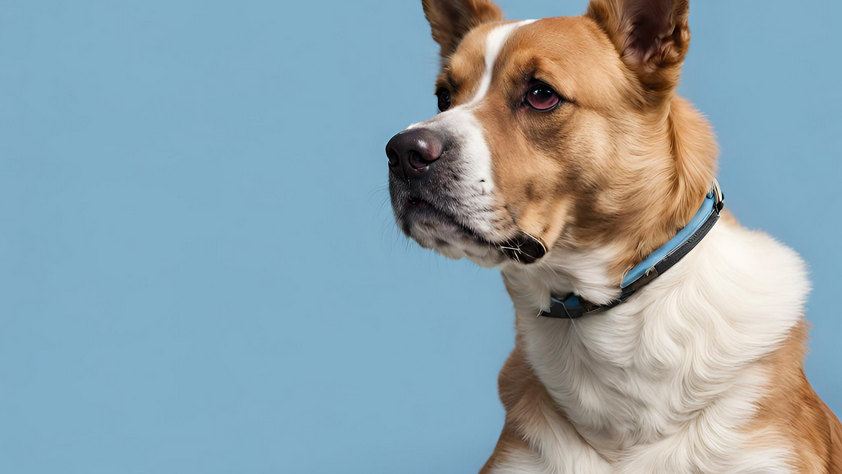
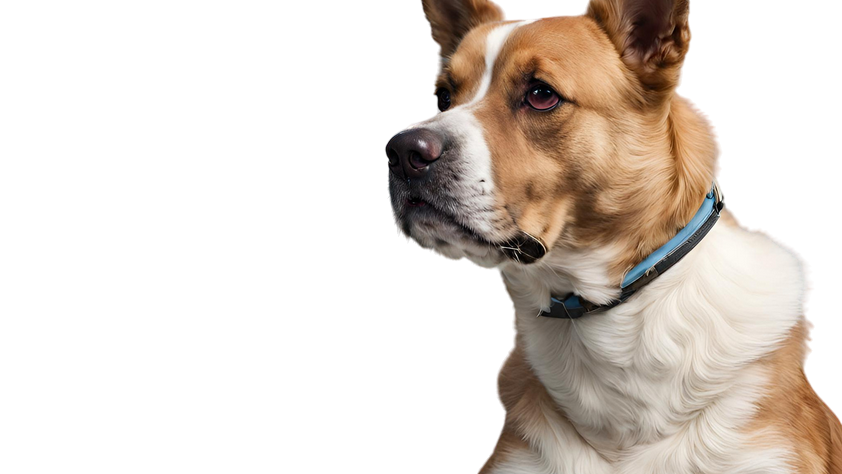
background header first mediaquery

diff --git a/src/scss/layout/_header.scss b/src/scss/layout/_header.scss
@@ -1,13 +1,14 @@
 @use '../abstracts/variables' as v;
+@use '../abstracts/mixins' as m;
 
 .header {
     position: relative;
     display: grid;
     grid-template-columns: 1fr repeat(12, minmax(min-content, 10rem)) 1fr;
-    grid-template-rows: min-content 1fr ;
-    grid-template-areas: 
-    ". navbar navbar navbar navbar navbar navbar navbar navbar navbar navbar navbar navbar ."
-    ". header-content header-content header-content header-content header-content header-content header-content header-content header-content header-content header-content header-content .";
+    grid-template-rows: min-content 1fr;
+    grid-template-areas:
+        ". navbar navbar navbar navbar navbar navbar navbar navbar navbar navbar navbar navbar ."
+        ". header-content header-content header-content header-content header-content header-content header-content header-content header-content header-content header-content header-content .";
     // min-height: 100vh;
 
 
@@ -17,19 +18,22 @@
         grid-template-columns: repeat(4, 1fr);
         grid-template-rows: 2fr 1fr;
         align-items: center;
-        &__left{
+
+        &__left {
             display: flex;
             flex-direction: column;
             justify-content: center;
             // &__title{
 
             // }
-            &__pg{
+            &__pg {
                 margin: 2rem 0;
             }
         }
-        &__right{}
-        &__bottom{
+
+        &__right {}
+
+        &__bottom {
             grid-row: 2;
             grid-column: 1 / -1;
             display: flex;
@@ -38,12 +42,14 @@
             border-radius: v.$border-radius--primary;
             // border: 1px solid black;
             box-shadow: v.$border--shadow--primary;
+
             &__info {
-                flex:1;
+                flex: 1;
                 display: flex;
                 flex-direction: column;
                 justify-content: space-evenly;
                 align-items: center;
+
                 &:last-child {
                     background: v.$color--quintenary;
                     border-radius: v.$border-radius--right;
@@ -51,10 +57,26 @@
             }
         }
     }
+
+    &__background {
+        grid-column: 7 / -1;
+        grid-row: 1 / -1;
+        z-index: -1;
+        top: 0;
+        right: 0;
+        background: url('src/assets/img/dog-header.png');
+        background-size: cover;
+        height: 100vh;
+        width: 100%;
+        background-position: right;
+        background-color: v.$color--quintenary--dark;
+        clip-path: ellipse(59% 72% at 63% 35%);
+        @include m.header-background(750px);
+    }
 }
 
 @media screen and (max-width: 600px) {
     .header {
-        min-height: max-content ;
+        min-height: max-content;
     }
 }

diff --git a/src/components/Header.tsx b/src/components/Header.tsx
@@ -7,9 +7,9 @@ import { useEffect, useState } from "react"
 export const Header: React.FC = () => {
 
   const location = useLocation()
-  const [homePlaced, setHomePlaced]= useState(false);
-  useEffect(()=> {
-    if(location.pathname === '/')
+  const [homePlaced, setHomePlaced] = useState(false);
+  useEffect(() => {
+    if (location.pathname === '/')
       setHomePlaced(true)
     else
       setHomePlaced(false)
@@ -17,10 +17,14 @@ export const Header: React.FC = () => {
 
   return (
     <header className="header" style={{
-      minHeight: `${homePlaced === true ? '100vh': ''}`
+      minHeight: `${homePlaced === true ? '100vh' : ''}`
     }}>
+      {
+        homePlaced && <div className="header__background" /> }
+
+
       <Navbar />
-      { homePlaced === true ? <HeaderContent /> : null}
+      {homePlaced === true ? <HeaderContent /> : null}
     </header>
   )
 }

diff --git a/src/components/Navbar.tsx b/src/components/Navbar.tsx
@@ -2,7 +2,7 @@ import { faBars, faGear } from "@fortawesome/free-solid-svg-icons"
 import { FontAwesomeIcon } from "@fortawesome/react-fontawesome"
 import { useState } from "react"
 import { useDispatch, useSelector } from "react-redux";
-import { NavLink, useNavigate } from "react-router-dom";
+import { Link, NavLink, useNavigate } from "react-router-dom";
 import { RootState } from "../app/store";
 import { setLogOut } from "../features/auth/authSlice";
 
@@ -32,7 +32,7 @@ export const Navbar = () => {
         <nav className="navbar">
             <div className="navbar__nav">
                 <div className="navbar__nav__logo">
-                    <span>VetCare</span>
+                    <span><Link to={'/'}>VetCare</Link></span>
                 </div>
 
                 <ul className="navbar__nav__links" style={styleOpen}>

diff --git a/src/components/HeaderContent.tsx b/src/components/HeaderContent.tsx
@@ -1,5 +1,5 @@
 import { Link } from "react-router-dom";
-import dogBackground from "../assets/img/dog-header.png";
+
 export const HeaderContent = () => {
     return (
         <div className="header__content">
@@ -28,17 +28,7 @@ export const HeaderContent = () => {
                     <b>Any info</b>
                 </div>
             </div>
-            <div className="header__backgroud" style={{
-                position: "absolute",
-                zIndex: "-1",
-                top: 0,
-                background: `url(${dogBackground})`,
-                backgroundSize: "cover",
-                height: "100%",
-                width: "100%",
-                // clipPath: "ellipse(31% 52% at 61% 52%)"
-                clipPath: "ellipse(30% 70% at 70% 40%)",
-            }} />
+           
         </div>
     )
 }

diff --git a/src/scss/abstracts/_mixins.scss b/src/scss/abstracts/_mixins.scss
@@ -1,0 +1,23 @@
+@mixin body-font($breakpoint) {
+    @if ($breakpoint <= 980px) {
+        @media screen and (max-width: 980px) {
+            font-size: clamp(1.2rem, 1vw, 1.4rem); 
+        }
+     }
+}
+
+@mixin header-background ($breakpoint) {
+    @media screen and (max-width: 875px) {
+        background-position-x: 500px ;
+    }
+}
+
+
+@mixin card($breakpoint) {
+    @if ($breakpoint <= 980px) {
+        @media screen and (max-width: 980px) {
+            // font-size: 1.3rem;
+        }
+     }
+}
+

diff --git a/src/scss/base/_typography.scss b/src/scss/base/_typography.scss
@@ -1,9 +1,13 @@
+@use '../abstracts/mixins' as m;
 @import url("https://fonts.googleapis.com/css2?family=Anton&family=Lusitana:wght@400;700&family=Quicksand:wght@300;400;500;600;700&family=Roboto:wght@400;700&display=swap");
 @import url('https://fonts.googleapis.com/css2?family=Playwrite+AU+SA:wght@100..400&display=swap');
+
+
 
 body {
     font-size: 1.6rem;
     font-family: "Roboto", sans-serif;
+    @include m.body-font(980px);
 }
 
 .text-dec-none {

diff --git a/src/scss/components/_card-carousel.scss b/src/scss/components/_card-carousel.scss
@@ -1,4 +1,5 @@
 @use '../abstracts/variables' as v;
+@use '../abstracts/mixins' as m;
 
 .card-carousel {
     height: 200px;
@@ -35,4 +36,5 @@
             object-fit: cover;
         }
     }
+    @include m.card(980px)
 }
